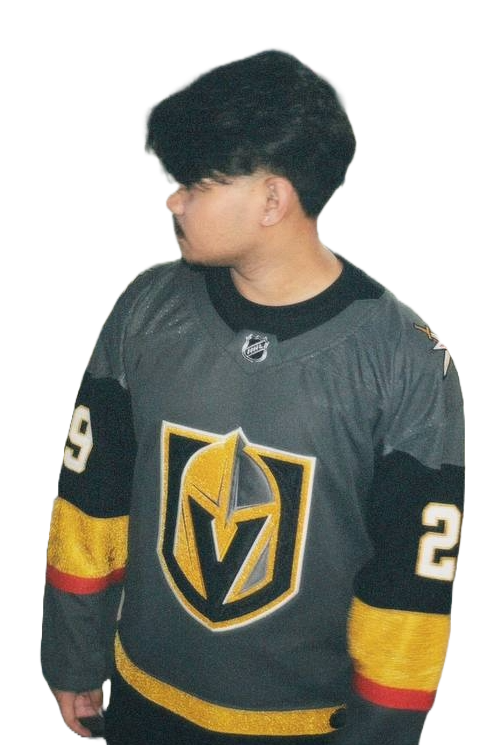
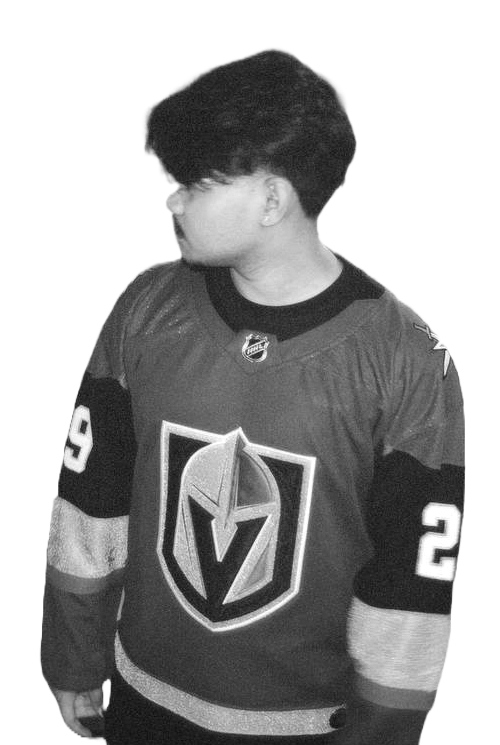
feat: add project screenshots and black-and-white about photo

diff --git a/src/data/portfolio.ts b/src/data/portfolio.ts
@@ -75,6 +75,7 @@ export const projects: Project[] = [
     ],
     stack: ["Next.js", "TypeScript", "Tailwind CSS", "Neon Postgres", "Drizzle ORM", "Vercel"],
     links: [{ label: "Live", href: "https://kodigo-ai-study-buddy.vercel.app/" }],
+    image: "/images/projects/kodigo.png",
   },
   {
     slug: "skillscope",
@@ -88,6 +89,7 @@ export const projects: Project[] = [
     ],
     stack: ["Python", "pandas", "scikit-learn", "XGBoost", "SHAP", "Streamlit", "GitHub Actions"],
     links: [{ label: "Live", href: "https://skillscope-tech-job-market-analyzer.streamlit.app/" }],
+    image: "/images/projects/skillscope.png",
   },
   {
     slug: "webtracker",
@@ -101,6 +103,7 @@ export const projects: Project[] = [
     ],
     stack: ["JavaScript", "Chrome Extension (MV3)", "Chrome Storage API", "Node.js"],
     links: [{ label: "Code", href: "https://github.com/KlRAAA/WebTracker" }],
+    image: "/images/projects/webtracker.png",
   },
 ];
 
